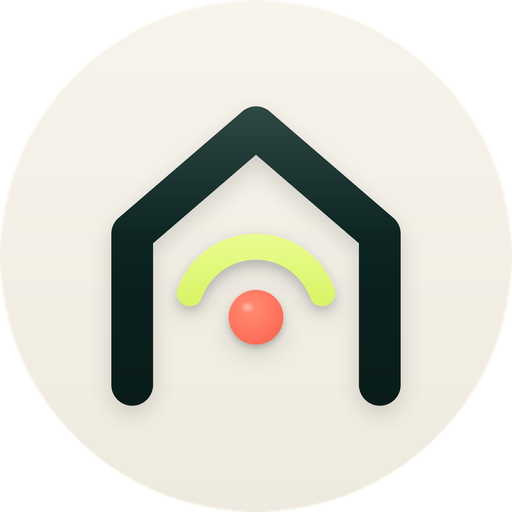
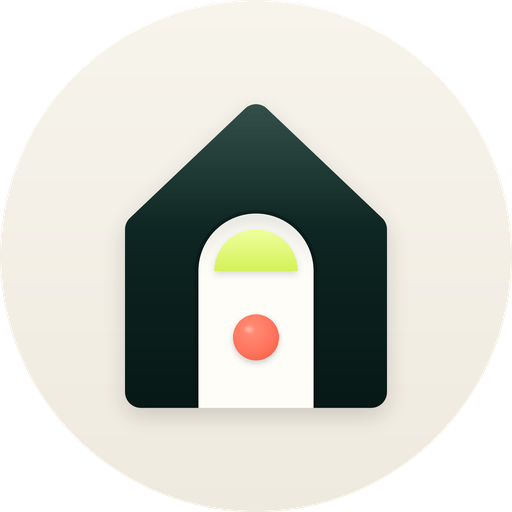
Redesign brand mark as solid house with luminous portal

diff --git a/tools/brand/generate_mark.py b/tools/brand/generate_mark.py
@@ -1,16 +1,18 @@
 #!/usr/bin/env python3
-"""Generate the AbitareSmart Signal mark and every web export from scratch.
+"""Generate the AbitareSmart "warm core" mark and every web export from scratch.
 
-The geometry is pure vector, built on the Signal palette:
-  - Ink #0B211F      architectural portal (open house silhouette)
-  - Lime #DDF86A     precision signal channel (single arc, not generic Wi-Fi)
-  - Coral #FF735C    source node (the intelligent hub)
+Concept: a solid botanical-ink house opened by a warm arched doorway — an
+Italian portale. A lime lunetta (fanlight window) glows at the top of the
+arch; the coral hub floats in the doorway below it. Solid mass + luminous
+portal — designed PNG-first with restrained material lighting, composited
+at 2048 px and supersampled down.
+
+Palette (Signal design system):
+  - Ink #0B211F      solid architectural shell
+  - White #FFFDF8    interior plate seen through the aperture
+  - Lime #DDF86A     energy ring circulating around the hub
+  - Coral #FF735C    the intelligent hub itself
   - Canvas #F7F4EC / Surface #EFEADF  circular presentation field
-
-The PNG exports add restrained material lighting: a satin vertical gradient
-on the ink portal, a top-light sheen, an enamel node with a specular
-highlight, and soft contact shadows. Everything is composited at 2048 px
-and supersampled down, so edges stay clean at every size.
 
 Outputs (all paths relative to repo root):
   assets/img/brand/abitaresmart-mark.svg      512 master geometry, transparent
@@ -21,57 +23,71 @@ Outputs (all paths relative to repo root):
   assets/img/abitaresmart-mark-avatar.png     2048x2048 circular (touch icon + social)
 """
 
+import io
 import math
 from pathlib import Path
 
 import cairosvg
-from PIL import Image, ImageFilter
+from PIL import Image, ImageChops, ImageFilter
 
 ROOT = Path(__file__).resolve().parents[2]
 IMG = ROOT / "assets" / "img"
 
 INK = "#0B211F"
+WHITE = "#FFFDF8"
 LIME = "#DDF86A"
 CORAL = "#FF735C"
 CANVAS = "#F7F4EC"
 SURFACE = "#EFEADF"
 
-SS = 2048  # supersampling canvas
+SS = 2048          # supersampling canvas
+K = SS / 512       # 512-grid -> supersample scale
 
 # --- geometry (512 viewBox) -------------------------------------------------
-# Open-portal pentagon: two walls and a gabled roof drawn as one continuous
-# round-capped stroke. The open base keeps the doorway/portal brand story.
-WALL_L, WALL_R = 84, 428
-BASE_Y, EAVE_Y, APEX_Y = 442, 232, 84
-STROKE = 58
+# Solid house: filled pentagon whose corners are rounded by stroking the same
+# path with a round-joined stroke (radius = CORNER / 2).
+APEX = (256, 66)
+EAVE_Y, BASE_Y = 218, 444
+X_L, X_R = 96, 416
+CORNER = 44
 
-# Signal: one wide arc hugging the node, centred on the hub.
-NODE = (256, 348)
-NODE_R = 38
-ARC_R = 98
-ARC_W = 36
-ARC_DEG = 20  # arc runs from 180-ARC_DEG to ARC_DEG degrees, over the top
+ARCH = (256, 276)    # doorway arch centre
+R_ARCH = 80
+DOOR_L, DOOR_R = 176, 336
+DOOR_BOTTOM = 470    # past the shell edge; clipped to the silhouette
+R_LUNETTA = 58       # lime fanlight (lunetta) filling the top of the arch
+HUB = (256, 368)     # coral hub floating in the doorway
+R_CORE = 32
 
-HOUSE_D = f"M {WALL_L} {BASE_Y} V {EAVE_Y} L 256 {APEX_Y} L {WALL_R} {EAVE_Y} V {BASE_Y}"
+HOUSE_D = (f"M {X_L} {BASE_Y} L {X_L} {EAVE_Y} L {APEX[0]} {APEX[1]} "
+           f"L {X_R} {EAVE_Y} L {X_R} {BASE_Y} Z")
+DOOR_D = (f"M {DOOR_L} {DOOR_BOTTOM} L {DOOR_L} {ARCH[1]} "
+          f"A {R_ARCH} {R_ARCH} 0 0 1 {DOOR_R} {ARCH[1]} L {DOOR_R} {DOOR_BOTTOM} Z")
+
+# Optical bounds: x 74-438, y 44-466 -> centre (256, 255).
+OPT_CY = 255
 
 
-def arc_path() -> str:
-    a = math.radians(ARC_DEG)
-    dx, dy = ARC_R * math.cos(a), ARC_R * math.sin(a)
-    x1, x2 = NODE[0] - dx, NODE[0] + dx
-    y = NODE[1] - dy
-    return f"M {x1:.2f} {y:.2f} A {ARC_R} {ARC_R} 0 0 1 {x2:.2f} {y:.2f}"
+def lunetta_path() -> str:
+    x1, x2 = ARCH[0] - R_LUNETTA, ARCH[0] + R_LUNETTA
+    return f"M {x1} {ARCH[1]} A {R_LUNETTA} {R_LUNETTA} 0 0 1 {x2} {ARCH[1]} Z"
+
+
+def house_shape(paint: str) -> str:
+    return (f'<path d="{HOUSE_D}" fill="{paint}" stroke="{paint}" '
+            f'stroke-width="{CORNER}" stroke-linejoin="round"/>')
 
 
 # --- flat vector masters ----------------------------------------------------
 
-def flat_group(house=INK, lime=LIME, coral=CORAL) -> str:
-    return f"""  <path d="{HOUSE_D}"
-        fill="none" stroke="{house}" stroke-width="{STROKE}"
-        stroke-linecap="round" stroke-linejoin="round"/>
-  <path d="{arc_path()}" fill="none" stroke="{lime}"
-        stroke-width="{ARC_W}" stroke-linecap="round"/>
-  <circle cx="{NODE[0]}" cy="{NODE[1]}" r="{NODE_R}" fill="{coral}"/>"""
+def flat_group() -> str:
+    return f"""  <defs>
+    <clipPath id="shell"><path d="{HOUSE_D}"/></clipPath>
+  </defs>
+  {house_shape(INK)}
+  <path d="{DOOR_D}" fill="{WHITE}" clip-path="url(#shell)"/>
+  <path d="{lunetta_path()}" fill="{LIME}"/>
+  <circle cx="{HUB[0]}" cy="{HUB[1]}" r="{R_CORE}" fill="{CORAL}"/>"""
 
 
 def wrap(body: str) -> str:
@@ -79,15 +95,10 @@ def wrap(body: str) -> str:
             f'{body}\n</svg>\n')
 
 
-def mark_svg() -> str:
-    return wrap(flat_group())
-
-
 def disc_svg() -> str:
-    # Optical bounds of the mark: x 55-457, y 55-471 -> centre (256, 263).
     scale = 0.72
     tx = 256 - scale * 256
-    ty = 256 - scale * 263
+    ty = 256 - scale * OPT_CY
     return wrap(f"""  <defs>
     <linearGradient id="field" x1="0" y1="0" x2="0" y2="1">
       <stop offset="0" stop-color="{CANVAS}"/>
@@ -105,13 +116,11 @@ def disc_svg() -> str:
 def render(body: str, size: int = SS) -> Image.Image:
     png = cairosvg.svg2png(bytestring=wrap(body).encode(),
                            output_width=size, output_height=size)
-    import io
     return Image.open(io.BytesIO(png)).convert("RGBA")
 
 
 def cast_shadow(layer: Image.Image, blur: float, dy: int,
-                opacity: float, color=(6, 16, 15)) -> Image.Image:
-    """Soft shadow built from a layer's silhouette."""
+                opacity: float, color=(5, 14, 13)) -> Image.Image:
     alpha = layer.split()[3]
     moved = Image.new("L", layer.size, 0)
     moved.paste(alpha, (0, dy))
@@ -122,68 +131,97 @@ def cast_shadow(layer: Image.Image, blur: float, dy: int,
     return shadow
 
 
-def house_layers() -> str:
-    """Satin ink portal: vertical tonal gradient plus a top-light sheen."""
-    return f"""  <defs>
-    <linearGradient id="satin" gradientUnits="userSpaceOnUse"
-        x1="0" y1="{APEX_Y - 30}" x2="0" y2="{BASE_Y + 30}">
-      <stop offset="0" stop-color="#173430"/>
-      <stop offset="0.55" stop-color="#0B211F"/>
-      <stop offset="1" stop-color="#091C1A"/>
-    </linearGradient>
-    <linearGradient id="sheen" gradientUnits="userSpaceOnUse"
-        x1="0" y1="{APEX_Y - 30}" x2="0" y2="{EAVE_Y}">
-      <stop offset="0" stop-color="#FFFDF8" stop-opacity="0.10"/>
-      <stop offset="1" stop-color="#FFFDF8" stop-opacity="0"/>
+def shell_mask() -> Image.Image:
+    return render(house_shape("#fff")).split()[3]
+
+
+def body_layer() -> Image.Image:
+    """Satin ink shell with a quiet top-light and occlusion around the arch."""
+    svg = f"""  <defs>
+    <linearGradient id="satin" gradientUnits="userSpaceOnUse" x1="0" y1="44" x2="0" y2="466">
+      <stop offset="0" stop-color="#1B3A34"/>
+      <stop offset="0.5" stop-color="#0C2320"/>
+      <stop offset="1" stop-color="#071815"/>
     </linearGradient>
   </defs>
-  <path d="{HOUSE_D}" fill="none" stroke="url(#satin)" stroke-width="{STROKE}"
-        stroke-linecap="round" stroke-linejoin="round"/>
-  <path d="{HOUSE_D}" fill="none" stroke="url(#sheen)" stroke-width="{STROKE}"
-        stroke-linecap="round" stroke-linejoin="round"/>"""
+  {house_shape("url(#satin)")}
+  <path d="M {DOOR_L} 466 L {DOOR_L} {ARCH[1]} A {R_ARCH} {R_ARCH} 0 0 1 {DOOR_R} {ARCH[1]} L {DOOR_R} 466"
+        fill="none" stroke="#04100E" stroke-width="10" stroke-opacity="0.4"/>"""
+    img = render(svg)
+    mask = shell_mask()
+    img.putalpha(ImageChops.multiply(img.split()[3], mask))
+    # top-light: a smooth vertical sheen built in PIL so the rounding stroke
+    # cannot double-paint it into a band along the roofline
+    y0, y1, peak = int(44 * K), int(210 * K), 0.11
+    ramp = Image.new("L", (1, SS), 0)
+    ramp.putdata([int(255 * peak * max(0.0, 1 - (y - y0) / (y1 - y0)))
+                  if y >= y0 else int(255 * peak) for y in range(SS)])
+    sheen_a = ImageChops.multiply(ramp.resize((SS, SS)), mask)
+    sheen = Image.new("RGBA", img.size, (255, 253, 248, 255))
+    sheen.putalpha(sheen_a)
+    img.alpha_composite(sheen)
+    return img
 
 
-def arc_layer() -> str:
-    top = NODE[1] - ARC_R - ARC_W / 2
-    return f"""  <defs>
+def plate_layer() -> Image.Image:
+    """Warm-white doorway, recessed: rim shadow under the arch."""
+    plate = render(f'<path d="{DOOR_D}" fill="{WHITE}"/>')
+    plate.putalpha(ImageChops.multiply(plate.split()[3], shell_mask()))
+    mask = plate.split()[3]
+    shift = int(9 * K)
+    moved = Image.new("L", plate.size, 0)
+    moved.paste(mask, (0, shift))
+    crescent = ImageChops.subtract(mask, moved)
+    crescent = crescent.filter(ImageFilter.GaussianBlur(10 * K))
+    crescent = ImageChops.multiply(crescent, mask)
+    crescent = crescent.point(lambda p: int(p * 0.30))
+    inner = Image.new("RGBA", plate.size, (35, 48, 44, 255))
+    inner.putalpha(crescent)
+    plate.alpha_composite(inner)
+    return plate
+
+
+def ring_layer() -> Image.Image:
+    top = ARCH[1] - R_LUNETTA
+    return render(f"""  <defs>
     <linearGradient id="limeg" gradientUnits="userSpaceOnUse"
-        x1="0" y1="{top}" x2="0" y2="{NODE[1]}">
-      <stop offset="0" stop-color="#E9FD90"/>
-      <stop offset="1" stop-color="#D6F25E"/>
+        x1="0" y1="{top}" x2="0" y2="{ARCH[1]}">
+      <stop offset="0" stop-color="#EDFF9E"/>
+      <stop offset="1" stop-color="#D5F158"/>
     </linearGradient>
   </defs>
-  <path d="{arc_path()}" fill="none" stroke="url(#limeg)"
-        stroke-width="{ARC_W}" stroke-linecap="round"/>"""
+  <path d="{lunetta_path()}" fill="url(#limeg)"/>""")
 
 
-def node_layer() -> str:
-    """Enamel hub: warm radial body with a small specular highlight."""
-    return f"""  <defs>
+def core_layer() -> Image.Image:
+    return render(f"""  <defs>
     <radialGradient id="enamel" cx="0.40" cy="0.34" r="0.92">
-      <stop offset="0" stop-color="#FF8B72"/>
+      <stop offset="0" stop-color="#FF8F76"/>
       <stop offset="0.55" stop-color="#FF735C"/>
-      <stop offset="1" stop-color="#EF5D45"/>
+      <stop offset="1" stop-color="#E9563E"/>
     </radialGradient>
     <radialGradient id="spec" cx="0.5" cy="0.5" r="0.5">
-      <stop offset="0" stop-color="#FFFDF8" stop-opacity="0.45"/>
+      <stop offset="0" stop-color="#FFFDF8" stop-opacity="0.42"/>
       <stop offset="1" stop-color="#FFFDF8" stop-opacity="0"/>
     </radialGradient>
   </defs>
-  <circle cx="{NODE[0]}" cy="{NODE[1]}" r="{NODE_R}" fill="url(#enamel)"/>
-  <ellipse cx="{NODE[0] - 12}" cy="{NODE[1] - 14}" rx="10" ry="8" fill="url(#spec)"/>"""
+  <circle cx="{HUB[0]}" cy="{HUB[1]}" r="{R_CORE}" fill="url(#enamel)"/>
+  <ellipse cx="{HUB[0] - 10}" cy="{HUB[1] - 11}" rx="8" ry="6.5" fill="url(#spec)"/>""")
 
 
 def material_mark() -> Image.Image:
-    house = render(house_layers())
-    arc = render(arc_layer())
-    node = render(node_layer())
+    body = body_layer()
+    plate = plate_layer()
+    ring = ring_layer()
+    core = core_layer()
 
     out = Image.new("RGBA", (SS, SS), (0, 0, 0, 0))
-    out.alpha_composite(house)
-    out.alpha_composite(cast_shadow(arc, blur=26, dy=28, opacity=0.15))
-    out.alpha_composite(cast_shadow(node, blur=16, dy=18, opacity=0.20))
-    out.alpha_composite(arc)
-    out.alpha_composite(node)
+    out.alpha_composite(body)
+    out.alpha_composite(plate)
+    out.alpha_composite(cast_shadow(ring, blur=5 * K, dy=int(4 * K), opacity=0.16))
+    out.alpha_composite(cast_shadow(core, blur=4 * K, dy=int(4 * K), opacity=0.20))
+    out.alpha_composite(ring)
+    out.alpha_composite(core)
     return out
 
 
@@ -198,15 +236,13 @@ def material_disc(mark: Image.Image) -> Image.Image:
 
     scale = 0.72
     small = mark.resize((int(SS * scale),) * 2, Image.LANCZOS)
-    # Optical centre of the mark sits at (256, 263) in the 512 grid.
     ox = round(SS / 2 - scale * SS * (256 / 512))
-    oy = round(SS / 2 - scale * SS * (263 / 512))
+    oy = round(SS / 2 - scale * SS * (OPT_CY / 512))
     placed = Image.new("RGBA", (SS, SS), (0, 0, 0, 0))
     placed.alpha_composite(small, (ox, oy))
 
     disc.alpha_composite(cast_shadow(placed, blur=44, dy=34, opacity=0.16))
     disc.alpha_composite(placed)
-    # keep the presentation strictly circular after the shadow pass
     mask = render('  <circle cx="256" cy="256" r="256" fill="#fff"/>').split()[3]
     disc.putalpha(mask)
     return disc
@@ -218,7 +254,7 @@ def save(img: Image.Image, out: Path, size: int) -> None:
 
 
 def main() -> None:
-    (IMG / "brand" / "abitaresmart-mark.svg").write_text(mark_svg())
+    (IMG / "brand" / "abitaresmart-mark.svg").write_text(wrap(flat_group()))
     (IMG / "abitaresmart-mark-disc.svg").write_text(disc_svg())
     print("  assets/img/brand/abitaresmart-mark.svg")
     print("  assets/img/abitaresmart-mark-disc.svg")

diff --git a/design.md b/design.md
@@ -91,13 +91,14 @@ The Signal palette restores the original neon character of the redesign: botanic
 
 ## 3. Logo
 
-The AbitareSmart **Signal mark** is a freestanding flat vector smart-home icon, not a badge or app tile. Three elements create the meaning:
+The AbitareSmart **Portale mark** is a freestanding smart-home icon, not a badge or app tile. Four elements create the meaning:
 
-- the botanical-ink **architectural portal** — an open house silhouette drawn as one continuous round-capped stroke — makes the home immediate and welcoming;
-- the electric-lime **precision signal channel** — a single wide arc hugging the hub — communicates a live connected system without the generic three-wave Wi-Fi symbol;
-- the coral **source node** represents the intelligent hub at the centre of the home.
+- the solid botanical-ink **architectural shell** — a softly rounded gabled silhouette — gives the mark confident, protective mass;
+- the warm-white **arched doorway** (the *portale*) opens the shell to the ground, welcoming you into the inhabited home;
+- the electric-lime **lunetta** — the fanlight window glowing at the top of the arch — communicates live intelligent energy without any Wi-Fi cliché;
+- the coral **hub** floats in the doorway: the intelligent heart of the home.
 
-The open base keeps the doorway/portal story: the page surface itself becomes the inhabited interior. The geometry is pure vector, so it stays crisp from a 16 px favicon to full-bleed print. The PNG exports add restrained material lighting — a satin vertical tone on the ink portal, a quiet top-light sheen, an enamel node with a small specular, and soft contact shadows — composited at 2048 px and supersampled down. The materials stay quiet; the geometry carries the mark. There is no square container in the primary mark.
+The composition is solid mass plus luminous portal: you look through the wall of a secure home into its warm, connected centre. The geometry is pure vector, so it stays crisp from a 16 px favicon to full-bleed print. The PNG exports add restrained material lighting — a satin vertical tone with a quiet top-light on the shell, a recessed rim shadow under the arch, an enamel hub with a small specular, and soft contact shadows — composited at 2048 px and supersampled down. The materials stay quiet; the geometry carries the mark. There is no square container in the primary mark.
 
 ### Source assets
 
@@ -127,7 +128,7 @@ The transparent high-resolution mark is used in structured organization metadata
 
 ### Construction and color
 
-The logo is anchored to three palette colors: Ink `#0B211F` for the architectural portal, Primary `#DDF86A` for the signal channel, and Accent `#FF735C` for the source node. The portal is a single open pentagon stroke (walls and gable) with round caps and joins; the signal is one arc concentric with the node. The material lighting in the exports uses only shaded derivatives of these three colors and may not introduce a new decorative hue; no further colors, strokes, or effects may be added to the mark.
+The logo is anchored to four palette colors: Ink `#0B211F` for the solid architectural shell, White `#FFFDF8` for the arched doorway, Primary `#DDF86A` for the lunetta fanlight, and Accent `#FF735C` for the hub. The shell is a filled gabled pentagon with rounded corners; the doorway is a half-circle arch cut to the base of the silhouette; the lunetta is a filled half-disc concentric with the arch; the hub is a circle floating in the doorway. The material lighting in the exports uses only shaded derivatives of these colors and may not introduce a new decorative hue; no further colors, strokes, or effects may be added to the mark.
 
 The primary mark has a transparent background. The circular presentation adds a Canvas-to-Surface tonal field so the mark survives dark browser chrome, platform downsampling, and Ink surfaces. This field must never be baked into the transparent website mark.
 
